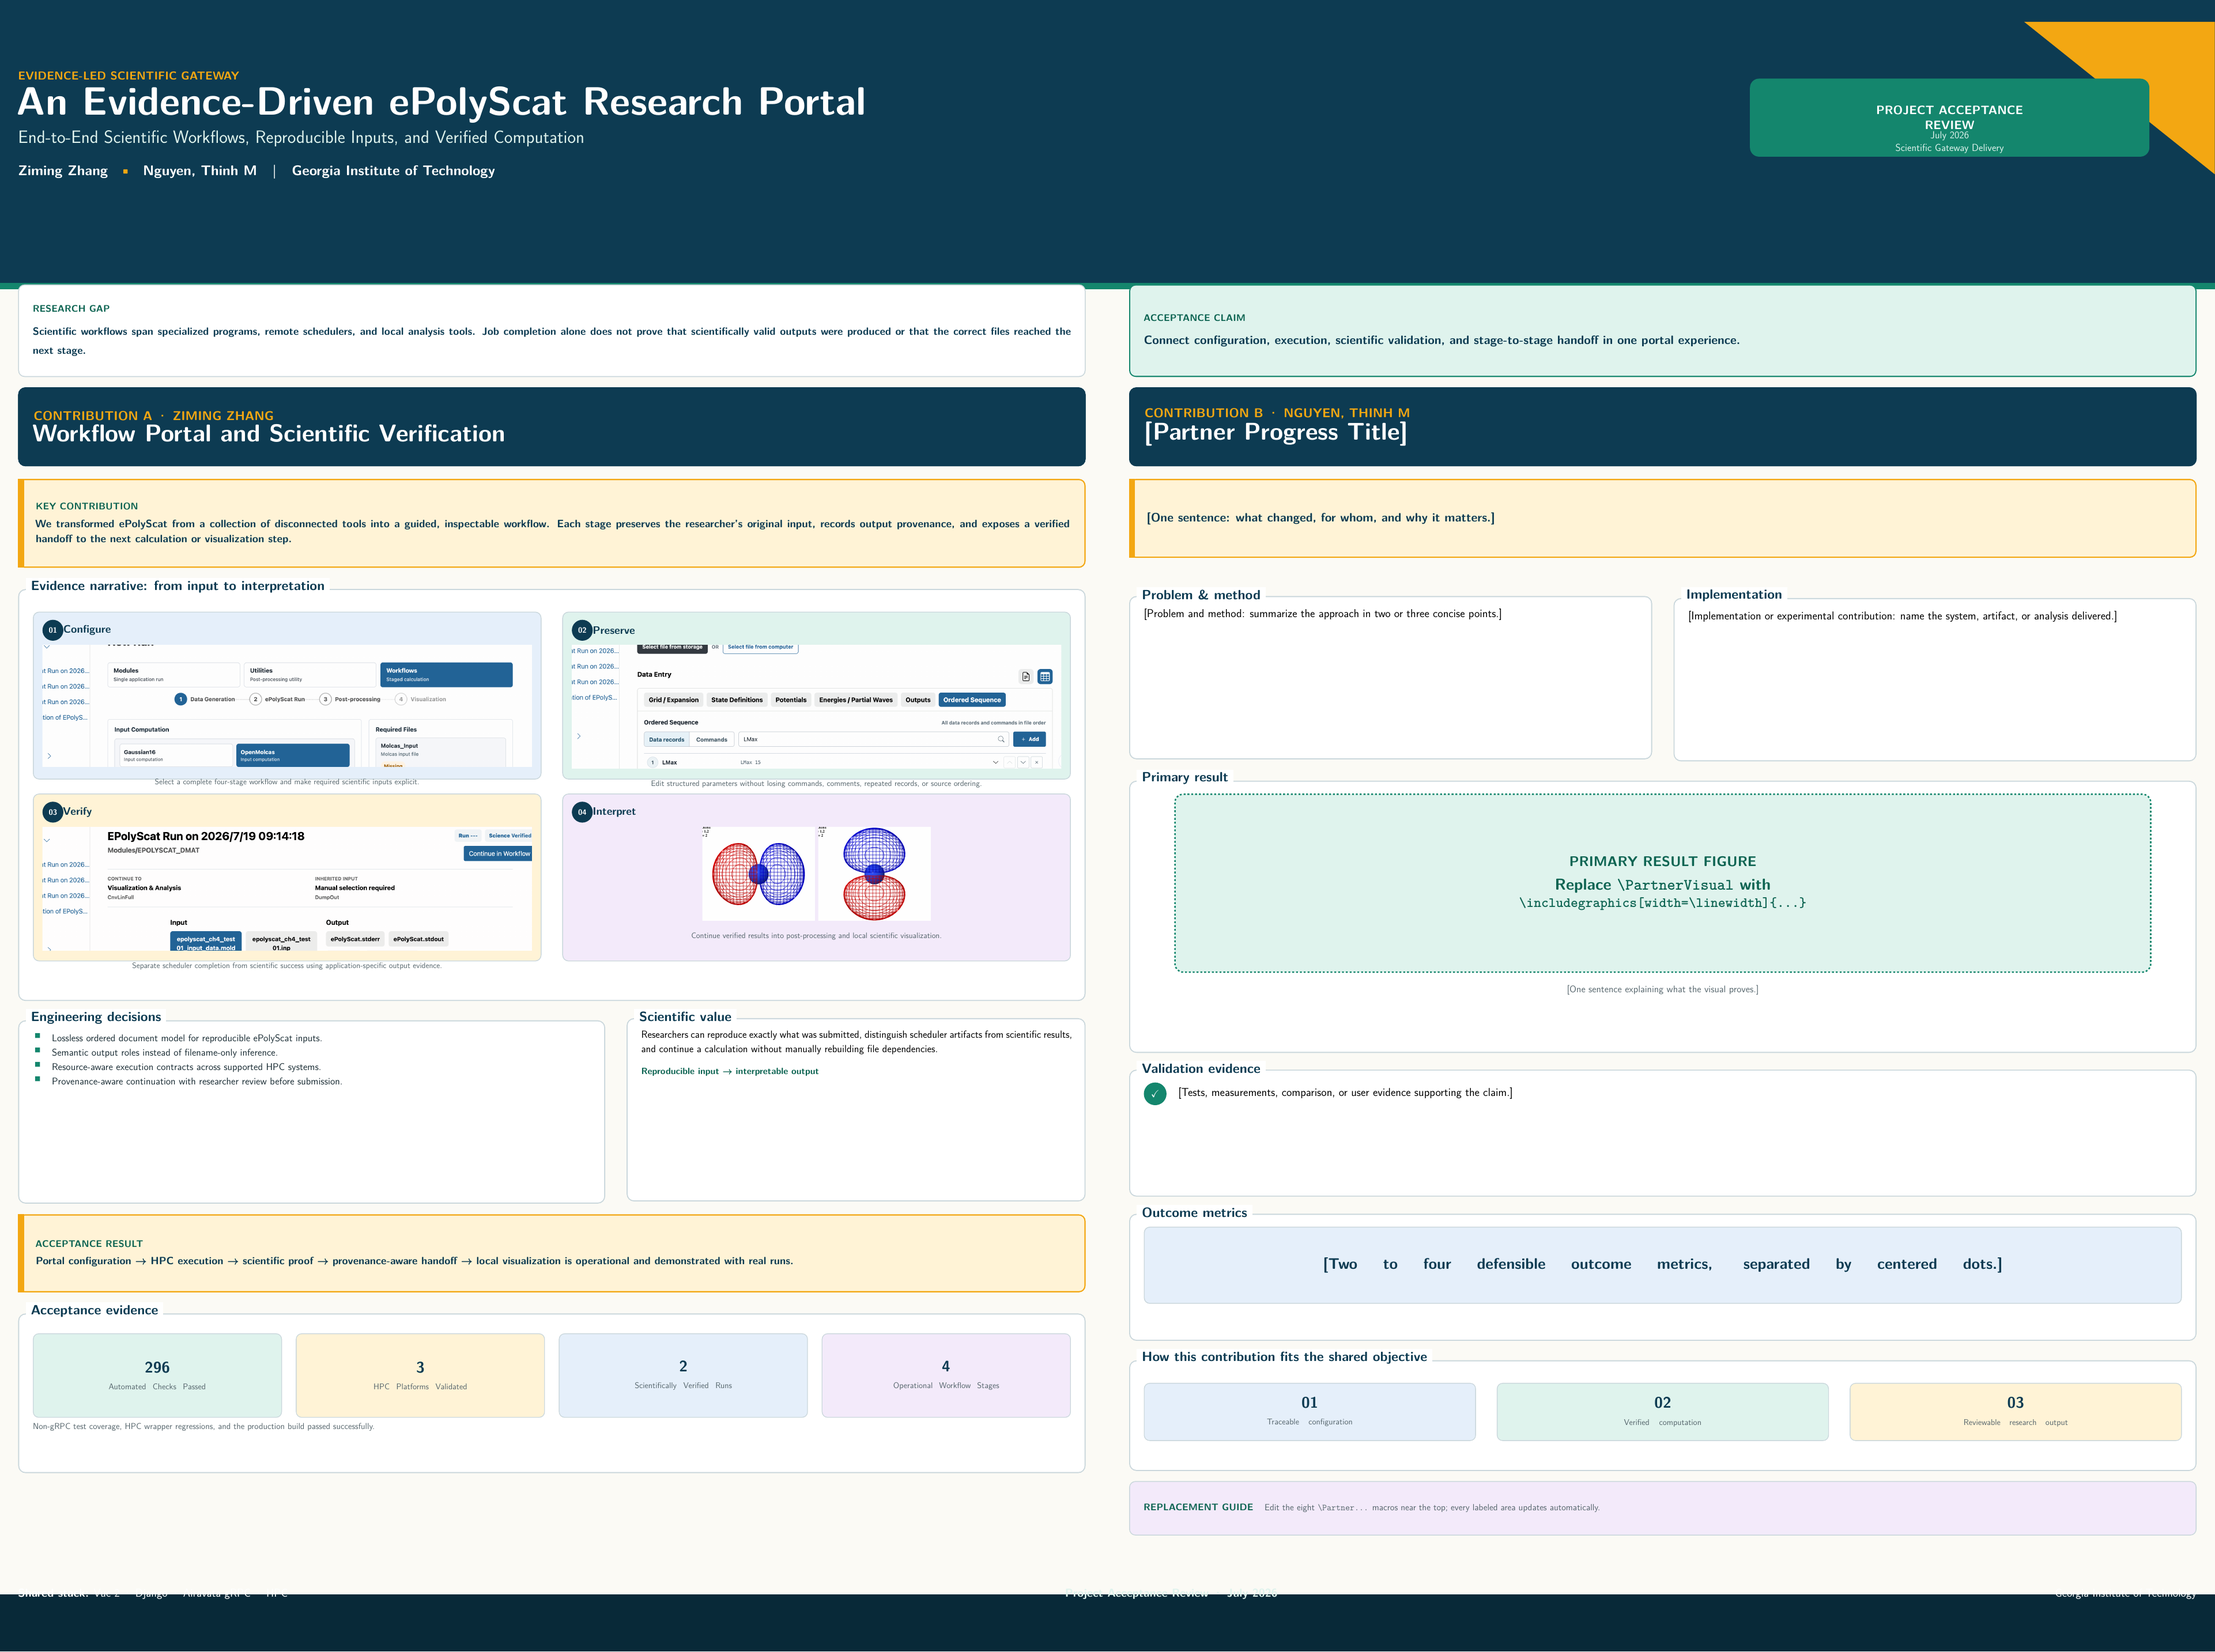
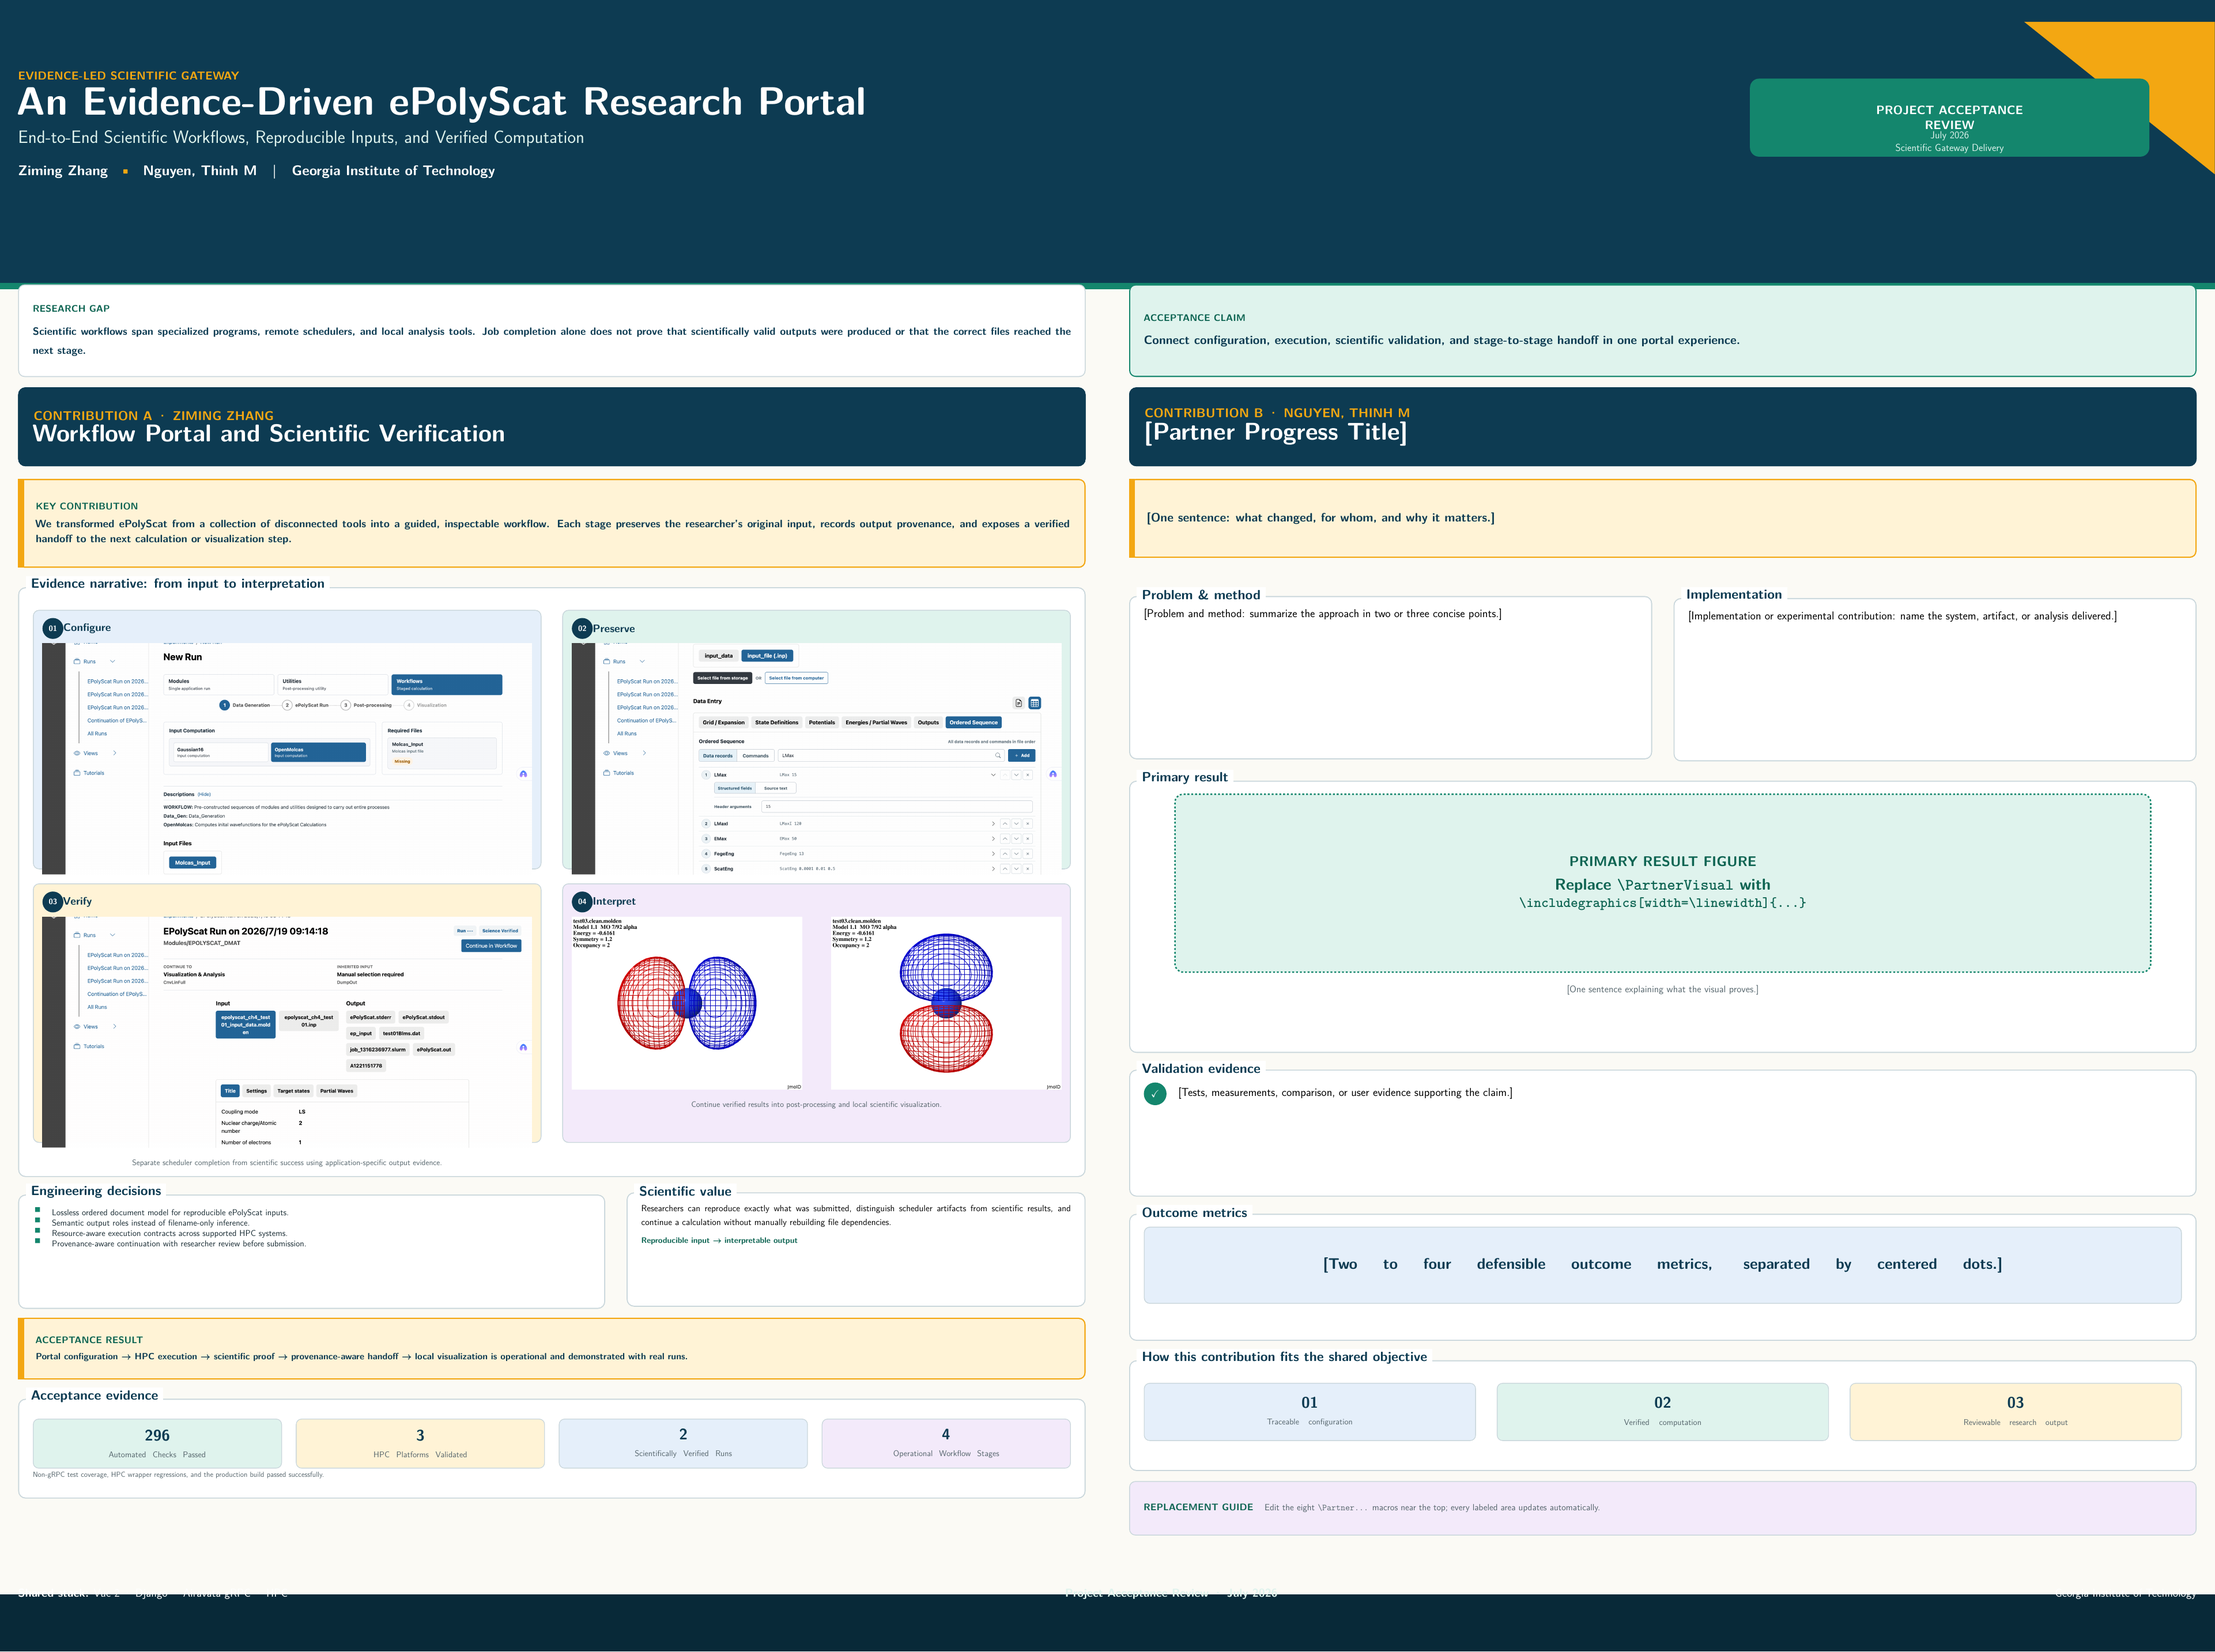
docs: show complete poster evidence screenshots

Changed region(s): [[0.0, 0.3725, 0.4996, 0.9002], [0.0312, 0.3415, 0.1561, 0.3725], [0.4059, 0.8692, 0.4372, 0.9002]]

diff --git a/docs/poster/epolyscat-progress-poster.tex b/docs/poster/epolyscat-progress-poster.tex
@@ -118,7 +118,7 @@
     boxrule=0.05cm,
     arc=0.3cm,
     left=0.38cm,right=0.38cm,top=0.3cm,bottom=0.28cm,
-    height=9.25cm,
+    height=14.3cm,
     valign=top
   ]
     \begin{minipage}[c]{1.15cm}
@@ -278,18 +278,18 @@
           We transformed ePolyScat from a collection of disconnected tools into a guided, inspectable workflow. Each stage preserves the researcher's original input, records output provenance, and exposes a verified handoff to the next calculation or visualization step.}
       \end{claimbox}
 
-      \vspace{0.45cm}
-      \begin{contentbox}[height=22.7cm]{Evidence narrative: from input to interpretation}
+      \vspace{0.35cm}
+      \begin{contentbox}[height=32.5cm]{Evidence narrative: from input to interpretation}
         \vspace{0.15cm}
         \begin{columns}[T,totalwidth=\linewidth]
           \begin{column}{0.49\linewidth}
             \EvidenceTile{PosterBlueTint}{01}{Configure}{%
-              \includegraphics[trim=400 676 80 100,clip,width=\linewidth]{workflow-new-run.png}}{%
+              \includegraphics[width=\linewidth]{workflow-new-run.png}}{%
               Select a complete four-stage workflow and make required scientific inputs explicit.}
           \end{column}
           \begin{column}{0.49\linewidth}
             \EvidenceTile{PosterGreenTint}{02}{Preserve}{%
-              \includegraphics[trim=400 566 80 200,clip,width=\linewidth]{input-preservation.png}}{%
+              \includegraphics[width=\linewidth]{input-preservation.png}}{%
               Edit structured parameters without losing commands, comments, repeated records, or source ordering.}
           \end{column}
         \end{columns}
@@ -297,26 +297,26 @@
         \begin{columns}[T,totalwidth=\linewidth]
           \begin{column}{0.49\linewidth}
             \EvidenceTile{PosterAmberTint}{03}{Verify}{%
-              \includegraphics[trim=400 726 80 40,clip,width=\linewidth]{workflow-evidence.png}}{%
+              \includegraphics[width=\linewidth]{workflow-evidence.png}}{%
               Separate scheduler completion from scientific success using application-specific output evidence.}
           \end{column}
           \begin{column}{0.49\linewidth}
             \EvidenceTile{PosterPurpleTint}{04}{Interpret}{%
-              \includegraphics[trim=105 55 105 55,clip,height=5.15cm]{scientific-visualization.png}%
-              \hspace{0.18cm}%
-              \includegraphics[trim=105 55 105 55,clip,height=5.15cm]{scientific-visualization-alt.png}}{%
+              \includegraphics[width=0.47\linewidth]{scientific-visualization.png}%
+              \hfill%
+              \includegraphics[width=0.47\linewidth]{scientific-visualization-alt.png}}{%
               Continue verified results into post-processing and local scientific visualization.}
           \end{column}
         \end{columns}
       \end{contentbox}
 
-      \vspace{0.45cm}
+      \vspace{0.35cm}
       \begin{columns}[T,totalwidth=\linewidth]
         \begin{column}{0.55\linewidth}
-          \begin{contentbox}[height=10.1cm]{Engineering decisions}
-            {\fontsize{15.3}{18.2}\selectfont
+          \begin{contentbox}[height=6.3cm]{Engineering decisions}
+            {\fontsize{13.4}{15.8}\selectfont
             \begin{itemize}
-              \setlength{\itemsep}{0.16cm}
+              \setlength{\itemsep}{0.02cm}
               \item Lossless ordered document model for reproducible ePolyScat inputs.
               \item Semantic output roles instead of filename-only inference.
               \item Resource-aware execution contracts across supported HPC systems.
@@ -325,41 +325,41 @@
           \end{contentbox}
         \end{column}
         \begin{column}{0.43\linewidth}
-          \begin{contentbox}[height=10.1cm]{Scientific value}
-            {\fontsize{16.2}{20}\selectfont
+          \begin{contentbox}[height=6.3cm]{Scientific value}
+            {\fontsize{14.0}{17.0}\selectfont
               Researchers can reproduce exactly what was submitted, distinguish scheduler artifacts from scientific results, and continue a calculation without manually rebuilding file dependencies.}
-            \par\vspace{0.45cm}
-            {\fontsize{14.2}{17}\selectfont\bfseries\color{PosterTealDark}
+            \par\vspace{0.2cm}
+            {\fontsize{12.5}{15}\selectfont\bfseries\color{PosterTealDark}
               Reproducible input \textrightarrow{} interpretable output}
           \end{contentbox}
         \end{column}
       \end{columns}
 
-      \vspace{0.45cm}
-      \begin{claimbox}[height=4.3cm,valign=center]
-        \SmallCaps{Acceptance result}\par\vspace{0.16cm}
-        {\fontsize{16.5}{19.8}\selectfont
+      \vspace{0.35cm}
+      \begin{claimbox}[height=3.4cm,valign=center]
+        \SmallCaps{Acceptance result}\par\vspace{0.08cm}
+        {\fontsize{14.2}{17.0}\selectfont
           Portal configuration \textrightarrow{} HPC execution \textrightarrow{} scientific proof \textrightarrow{} provenance-aware handoff \textrightarrow{} local visualization is operational and demonstrated with real runs.}
       \end{claimbox}
 
-      \vspace{0.45cm}
-      \begin{contentbox}[height=8.8cm]{Acceptance evidence}
+      \vspace{0.35cm}
+      \begin{contentbox}[height=5.5cm]{Acceptance evidence}
         \begin{columns}[T,totalwidth=\linewidth]
           \begin{column}{0.24\linewidth}
-            \TinyEvidence[4.65cm]{PosterGreenTint}{296}{Automated Checks Passed}
+            \TinyEvidence[2.75cm]{PosterGreenTint}{296}{Automated Checks Passed}
           \end{column}
           \begin{column}{0.24\linewidth}
-            \TinyEvidence[4.65cm]{PosterAmberTint}{3}{HPC Platforms Validated}
+            \TinyEvidence[2.75cm]{PosterAmberTint}{3}{HPC Platforms Validated}
           \end{column}
           \begin{column}{0.24\linewidth}
-            \TinyEvidence[4.65cm]{PosterBlueTint}{2}{Scientifically Verified Runs}
+            \TinyEvidence[2.75cm]{PosterBlueTint}{2}{Scientifically Verified Runs}
           \end{column}
           \begin{column}{0.24\linewidth}
-            \TinyEvidence[4.65cm]{PosterPurpleTint}{4}{Operational Workflow Stages}
+            \TinyEvidence[2.75cm]{PosterPurpleTint}{4}{Operational Workflow Stages}
           \end{column}
         \end{columns}
-        \vspace{0.28cm}
-        {\fontsize{13.5}{16.2}\selectfont\color{PosterGray}
+        \vspace{0.14cm}
+        {\fontsize{11.5}{13.5}\selectfont\color{PosterGray}
           Non-gRPC test coverage, HPC wrapper regressions, and the production build passed successfully.}
       \end{contentbox}
     \end{column}
